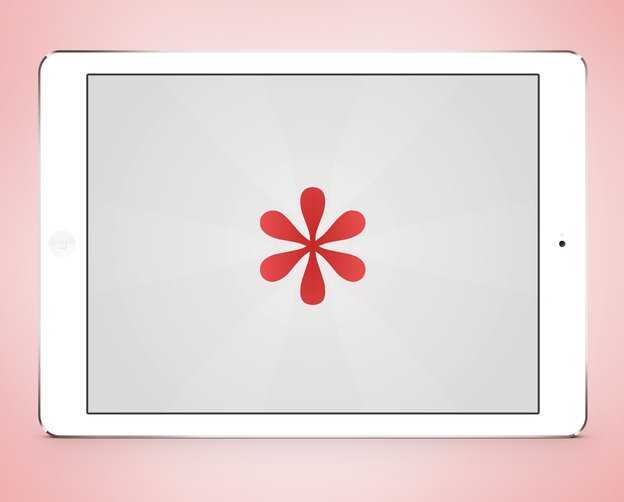
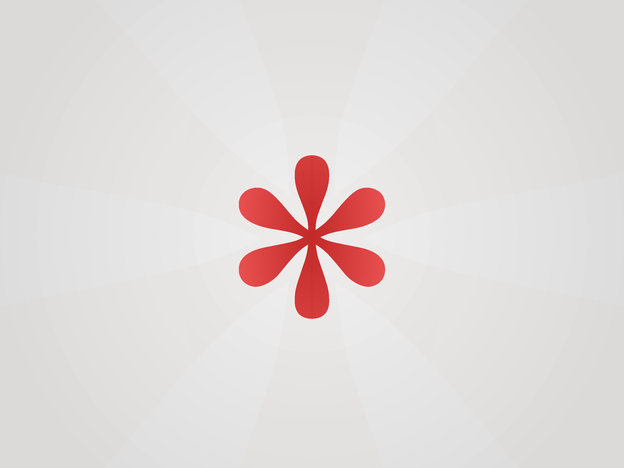
added bulmer project and images

diff --git a/pieces/bulmer-specimen.html b/pieces/bulmer-specimen.html
@@ -93,13 +93,17 @@
 					<div class="work article" id="ajaxWork">
 						<h1>Bulmer MT Type Specimen</h1>
 						<h2>Short description of the project</h2>
-		        		<img id="work1"  src="/images/pieces/bulmer-specimen/bulmer-002.jpg">
+		        		<img id="work1"  src="/images/pieces/bulmer-specimen/bulmer-ipad-001.jpg">
 		        		<p>. more more more more text more more text text more.</p>
-		        		<img  src="/images/pieces/bulmer-specimen/bulmer-003.jpg">
+		        		<img  src="/images/pieces/bulmer-specimen/bulmer-ipad-002.jpg">
+		        		<img  src="/images/pieces/bulmer-specimen/bulmer-ipad-003.jpg">
 		        		<img  src="/images/pieces/bulmer-specimen/bulmer-004.jpg">
 		        		<img  src="/images/pieces/bulmer-specimen/bulmer-005.jpg">
 		        		<img  src="/images/pieces/bulmer-specimen/bulmer-006.jpg">
 		        		<img  src="/images/pieces/bulmer-specimen/bulmer-007.jpg">
+		        		<img  src="/images/pieces/bulmer-specimen/bulmer-008.jpg">
+		        		<img  src="/images/pieces/bulmer-specimen/bulmer-010.jpg">
+		        		<img  src="/images/pieces/bulmer-specimen/bulmer-011.jpg">
 					</div>
 				</div>
 			</div> <!--container end-->
